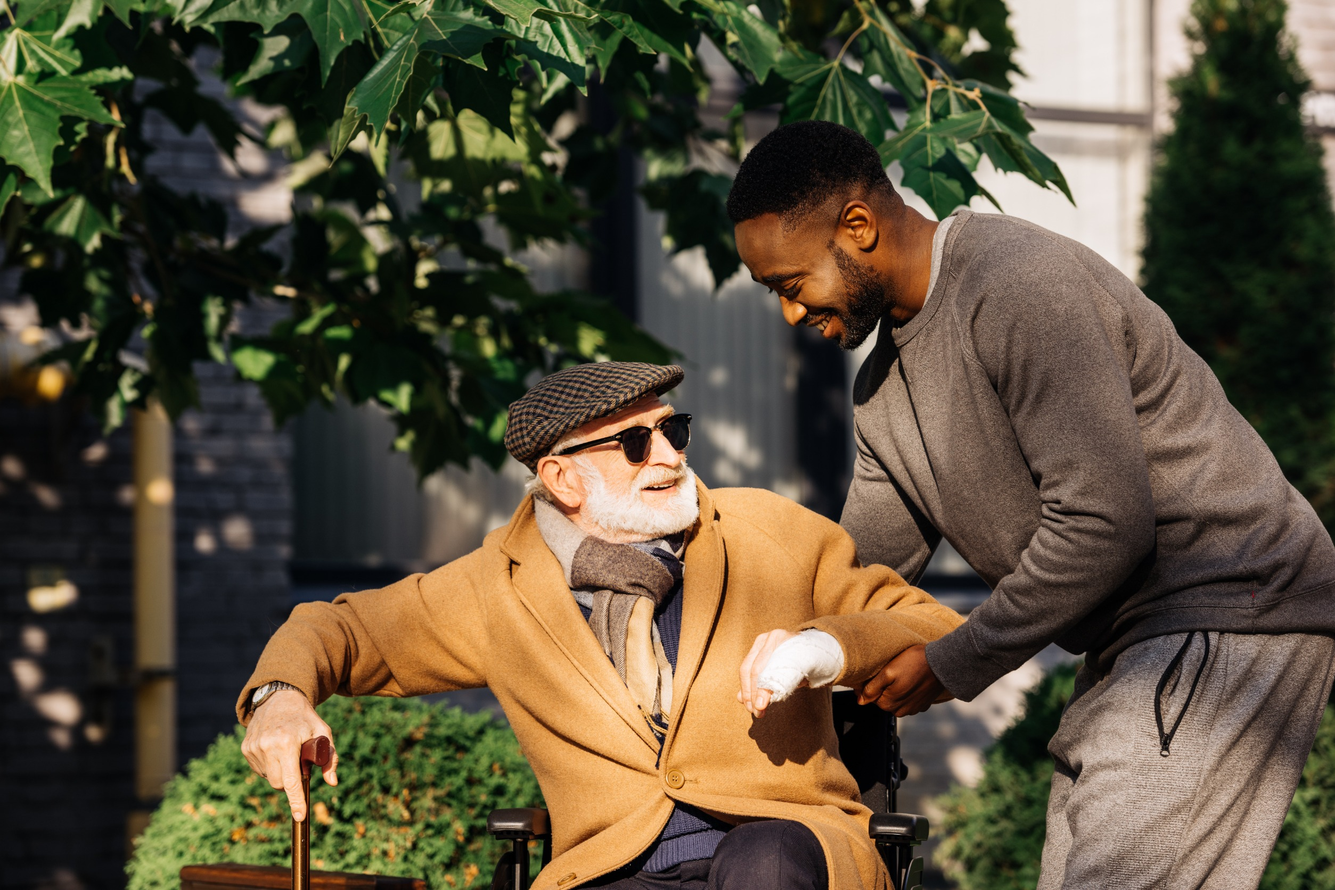
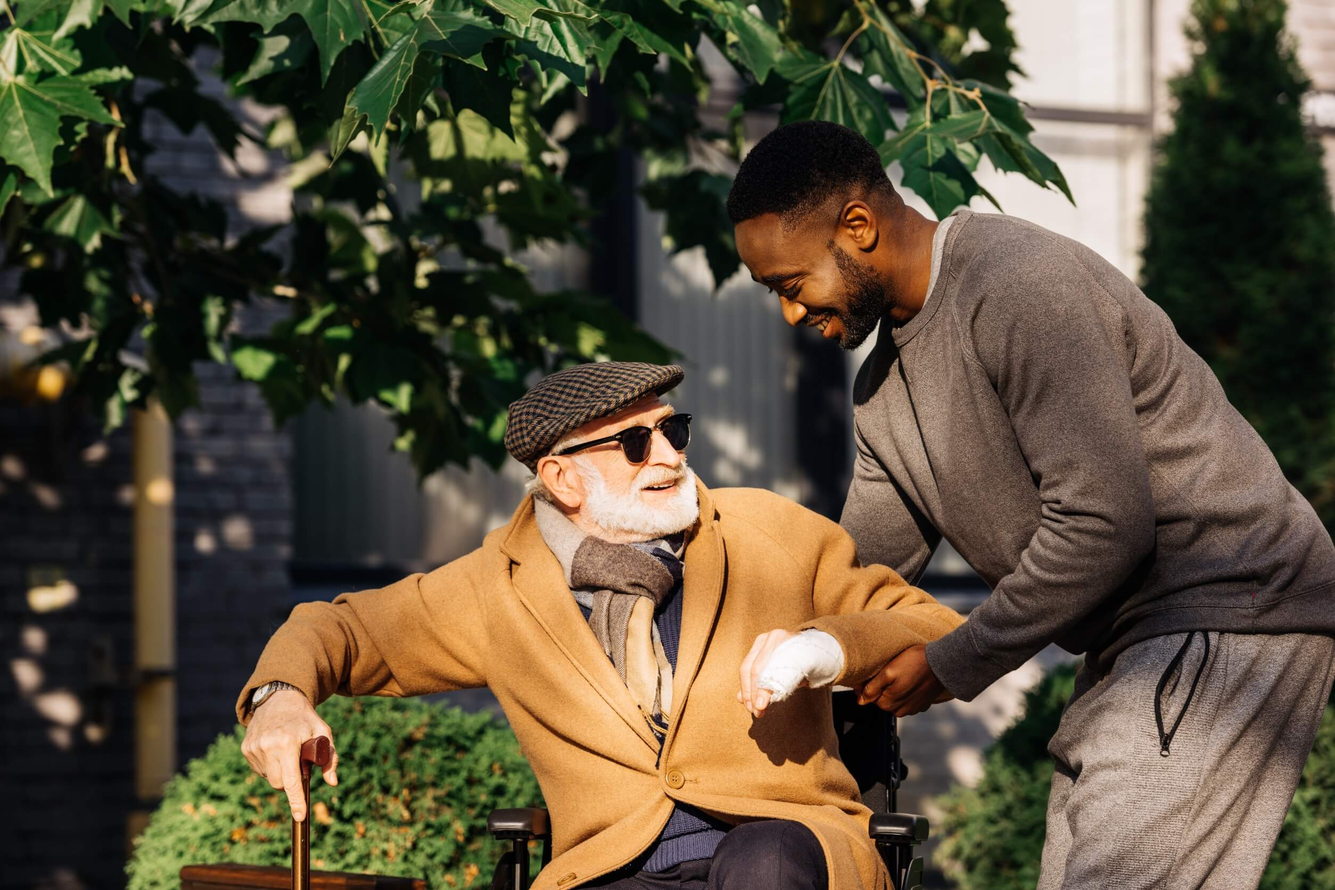
first commit

diff --git a/src/pages/Residential.jsx b/src/pages/Residential.jsx
@@ -1,7 +1,7 @@
 import React, { useEffect, useRef} from "react";
 import { motion, useAnimation, useInView } from "framer-motion";
-import img1 from "../assets/25.jpg"
-import img from "../assets/1.png"
+import img from "../assets/25.jpg"
+import img1 from "../assets/8-min.jpg"
 
 const Residential = () => {
   const ref = useRef(null);
@@ -41,7 +41,7 @@ const Residential = () => {
 Residential Service
 </motion.h1>
         <img
-          className="w-full h-full object-top"
+          className="w-full h-full "
           src={img1}
           alt=""
         />

diff --git a/src/pages/PersonalSupport.jsx b/src/pages/PersonalSupport.jsx
@@ -1,6 +1,6 @@
 import React, { useEffect, useRef} from "react";
 import { motion, useAnimation, useInView } from "framer-motion";
-import img1 from "../assets/3.png"
+import img1 from "../assets/11-min.jpg"
 import img from "../assets/24.jpg"
 
 const PersonalSupport = () => {

diff --git a/src/pages/DailyRespite.jsx b/src/pages/DailyRespite.jsx
@@ -1,7 +1,7 @@
 import React, { useEffect, useRef} from "react";
 import { motion, useAnimation, useInView } from "framer-motion";
 import img1 from "../assets/23.jpg"
-import img from "../assets/16.png"
+import img from "../assets/9-min.jpg"
 
 
 const DailyRespite = () => {
